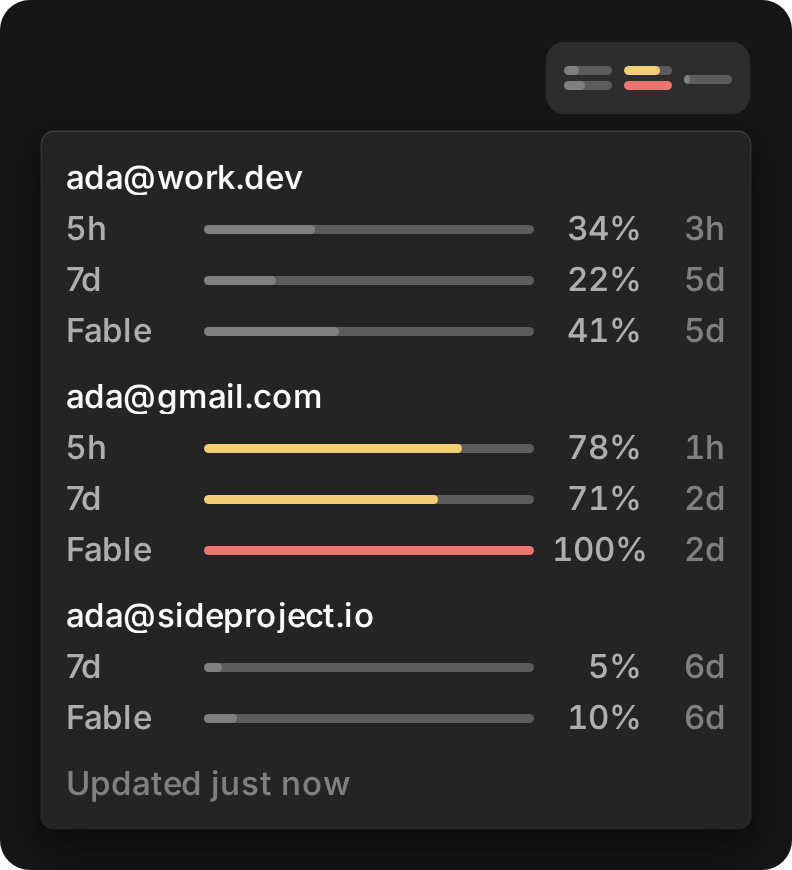
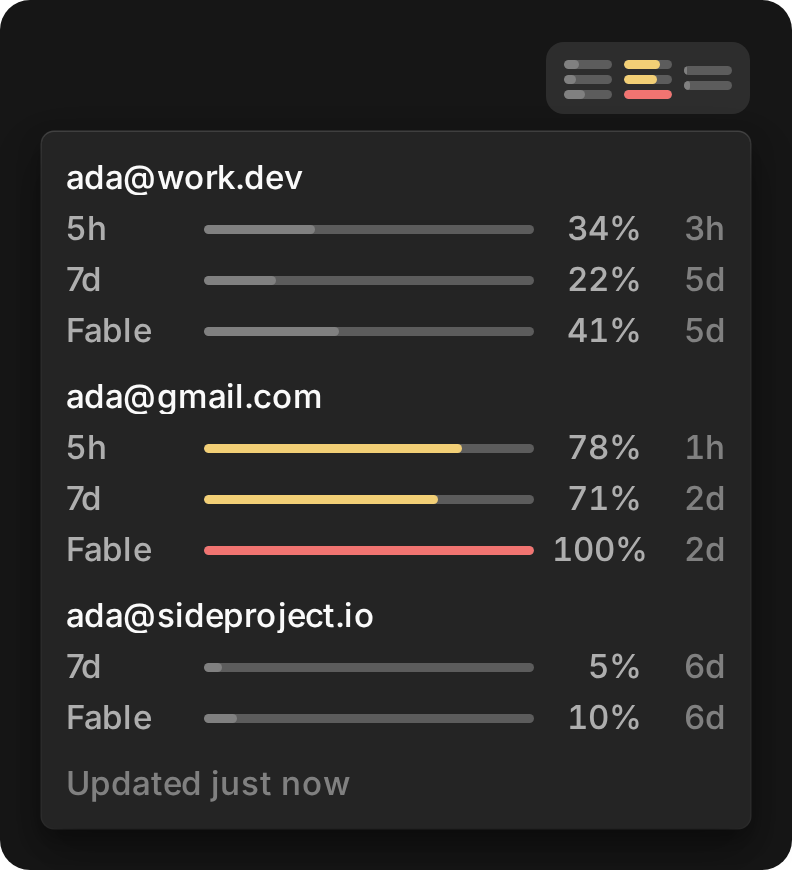
Show one header bar per limit

Changed region(s): [[0.697, 0.0621, 0.9394, 0.1241]]

diff --git a/src/window.tsx b/src/window.tsx
@@ -39,23 +39,6 @@ function shownLimits(account: Account) {
   return limits
 }
 
-/** The 5 hour limit, if the account has one, and the weekly limit that is closest to running out. */
-function summary(account: Account, now: number) {
-  let hasSession = false
-  let session = 0
-  let weekly = 0
-  for (const limit of shownLimits(account)) {
-    const percent = percentNow(limit, now)
-    if (limit.kind === "session") {
-      hasSession = true
-      session = percent
-    } else if (percent > weekly) {
-      weekly = percent
-    }
-  }
-  return { hasSession, session, weekly }
-}
-
 export const setup: Plugin.Setup<typeof definition> = (ctx) => {
   ctx.add(Style, css)
   ctx.add(Slot, { at: "session.header", order: 5, render: () => <UsageButton /> })
@@ -190,14 +173,13 @@ function UsageButton() {
         <For each={accounts()}>
           {(account) => (
             <span class="claude-usage-account" data-stale={account.stale}>
-              <Show when={summary(account, now()).hasSession}>
-                <span class="claude-usage-bar" data-level={level(summary(account, now()).session)}>
-                  <span style={{ width: `${summary(account, now()).session}%` }} />
-                </span>
-              </Show>
-              <span class="claude-usage-bar" data-level={level(summary(account, now()).weekly)}>
-                <span style={{ width: `${summary(account, now()).weekly}%` }} />
-              </span>
+              <For each={shownLimits(account)}>
+                {(limit) => (
+                  <span class="claude-usage-bar" data-level={level(percentNow(limit, now()))}>
+                    <span style={{ width: `${percentNow(limit, now())}%` }} />
+                  </span>
+                )}
+              </For>
             </span>
           )}
         </For>
